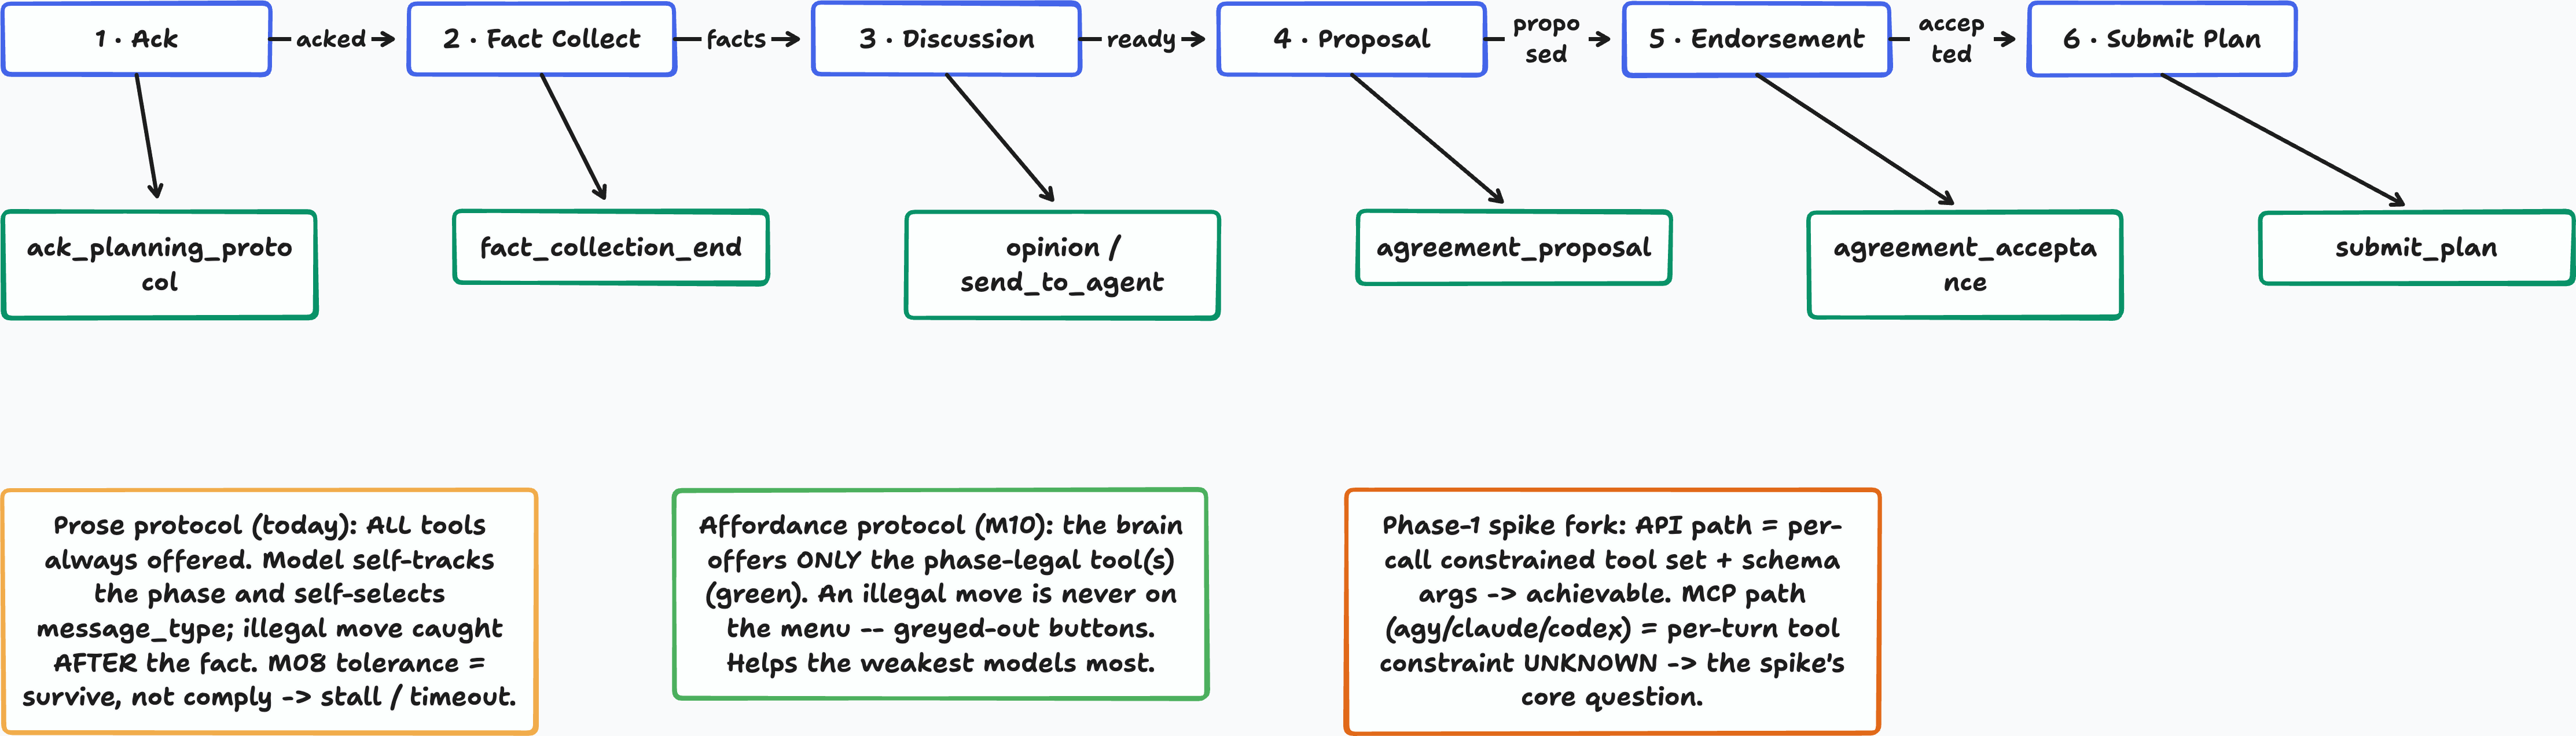
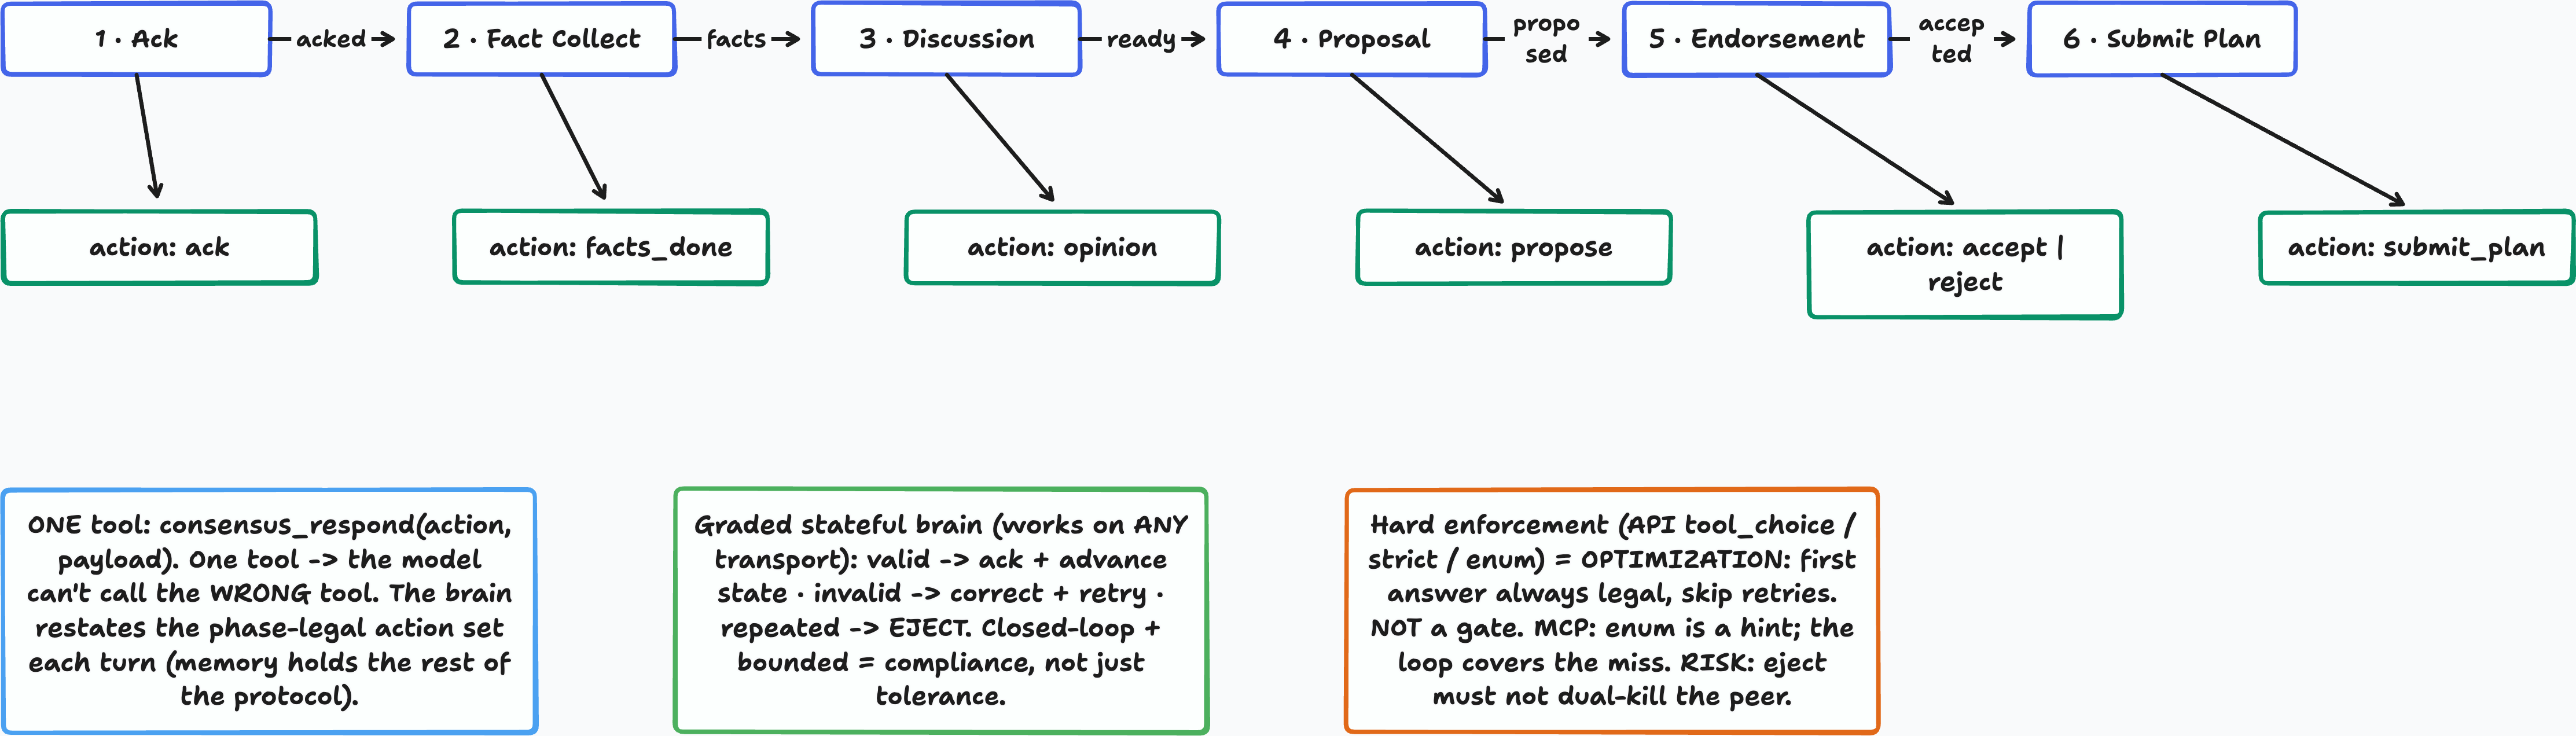
docs(M10): rewrite thesis -> graded stateful protocol brain
Reframed from 'affordance-based tool exposure (hinges on MCP enforcement)'
to a graded, bounded, closed-loop brain that works on any transport:
single consensus_respond tool, per-turn legal action set restated (agent
is memory-capable per M06), validate -> correct -> peer-safe eject. Hard
tool_choice/strict/enum enforcement demoted to an API-path OPTIMIZATION,
not a gate. Named risk: eject must not dual-kill the peer (LB-7/8). Phase-1
spike re-scoped to injection map + peer-safe-eject trace + enforcement-reach
measurement. Diagram + snapshot refreshed.

Settled in design exchange Fausto <-> Claude, 2026-06-25.

diff --git a/design/milestone10-protocol-compliance-plan.md b/design/milestone10-protocol-compliance-plan.md
@@ -1,98 +1,115 @@
-# Milestone 10 — Protocol compliance via affordance-based tool exposure — Plan
+# Milestone 10 — Robust consensus via a graded, stateful protocol brain — Plan
 
-> **Spike-led epic.** M10 makes multi-agent consensus *robust* by attacking the root cause logged in
-> **LB-10**: agents don't reliably follow the multi-phase protocol, and **tolerance ≠ compliance**.
-> Phase 1 (this plan's focus) is a **feasibility spike** — read/research + small probes, **no
-> production changes** — that answers whether the production substrate can support an "affordance
-> protocol" before we commit to building one. Phase 2 (implementation) is deliberately left to be
-> *shaped by the spike's findings*.
+> **Spike-led epic.** M10 makes multi-agent consensus robust. The mechanism — settled in a design
+> exchange (Fausto ↔ Claude, 2026-06-25) — is **not** hard decode-time enforcement, but a **graded,
+> bounded, closed-loop protocol brain** that works on *any* transport. Phase 1 is a design spike
+> (read/research + small probes, **no production changes**); Phase 2 (implementation) is shaped by it.
 
-## 1. Thesis (from LB-10) — compliance, not tolerance
+## 1. Thesis — compliance via a closed feedback loop, not hard enforcement
 
-Across M06–M08 the recurring failure (LB-6/7/8) is agents not following the consensus phase machine
+The recurring failure across M06–M08 (LB-6/7/8) is agents not following the consensus phase machine
 (ack → fact_collection → discussion → proposal → endorsement → submit_plan); weak models hallucinate
-transitions. M08 made the engine **tolerant** (no dual-crash on an illegal move) — but a tolerant
-engine + a non-compliant agent **stalls/times out**. The cure is **compliance**.
+illegal transitions. M08 made the engine **tolerant** (don't dual-crash) — but LB-10's "tolerance ≠
+compliance" still bit: *passive* tolerance stalls.
 
-**The lever — "affordance protocol" vs "prose protocol":**
-- **Today (prose):** the brain *describes* the protocol in prose, the model **self-tracks its phase and
-  self-selects `message_type`**, and the brain **validates/rejects after the fact**.
-- **Proposed (affordance):** the brain (which already knows the phase) **exposes only the tool(s) legal
-  for the current phase** — an illegal move is never on the menu, like greyed-out buttons. Helps the
-  *weakest* models most; the natural next step of the M07 "centralized brain" thesis (brain owns
-  per-turn **affordances**, not just prompt/parse/lifecycle).
+**The cure is an *active, bounded* loop, owned by the brain.** Each turn:
 
-Visual — `M10 · Affordance Protocol` (phases spine → per-phase legal tool → prose-problem /
-affordance-solution / spike-fork annotations). Snapshot committed in-repo so it survives without the
-DiagramTalk server; the source layout spec is alongside it (regenerate via
-`diagramtalk.py layout … --post`).
+```
+agent responds  →  brain validates against the CURRENT phase-legal set  →
+    valid     → ack + advance state ("you're now in state XX")
+    invalid   → reject + correct + retry ("not valid here; your options are {agree, back_off}")
+    repeated  → eject the agent, peer-safe ("ejected — see you when you're sober")
+```
 
-![M10 Affordance Protocol](diagrams/m10-affordance-protocol.png)
+This is **not** the naive M08 tolerance LB-10 criticized. It is **closed-loop** (a precise correction,
+not the same prompt again) and **bounded** (the eject rung guarantees termination instead of an infinite
+stall). Active + bounded is the difference between *survives* and *succeeds*.
 
-*Source spec: [`diagrams/m10-affordance-protocol.layout.json`](diagrams/m10-affordance-protocol.layout.json).*
+## 2. The design (settled)
 
-## 2. Why spike-led — the feasibility fork (the heart of Phase 1)
+- **One tool, not twelve.** Collapse `submit_plan` / `agreement_proposal` / `agreement_acceptance` / …
+  into a single **`consensus_respond(action, payload)`**. With one tool the model *cannot call the wrong
+  tool* — a whole failure class (LB-7/8 "picked an illegal message_type") disappears for free.
+- **The legal-move map is deterministic and server-side.** "agreement phase → {agree, back_off}" is a
+  pure function of the phase; the brain already knows the phase, so the legal `action` set per turn is
+  fully scriptable ahead of time.
+- **Restate the *current* affordance each turn — don't re-send the whole protocol.** The attached agent
+  is **memory-capable** (already the implemented reality: M06 rewrote the executor for native persistent
+  multi-turn, `agy --continue`, to "reliably simulate MCP-based agent statefulness"). So the full
+  protocol rides in the agent's transcript memory; only the **current-turn legal set** goes in each turn
+  payload ("phase: agreement; valid: {agree, back_off}"). Cheap, and the single biggest lever for
+  first-try compliance — it counters instruction-drift over long context without re-sending the schema.
+- **Graded validation + bounded eject** is the brain's job, in *our* code (`team-coordinator.ts` +
+  the driver), on a path we fully control — independent of transport.
 
-The two execution paths have different **compliance ceilings**, and the production one is **unverified**:
+Visual (snapshot committed in-repo so it survives without the DiagramTalk server; source spec alongside):
 
-| Path | Can the brain constrain the per-turn tool set? |
-|---|---|
-| **API** (in-process) | We control the request → native function-calling, per-call tool sets, schema-enforced args. Affordance protocol **likely fully achievable**. |
-| **MCP** (agy/claude/codex — the *production* direction) | Raw prompt → raw text; the MCP runs its **own** internal tool loop → we may **not** be able to restrict its per-turn tools. Possibly irreducibly freeform → stuck with prose+parse+tolerance (weakest substrate). **UNKNOWN — this is the spike's core question.** |
+![M10 graded protocol brain](diagrams/m10-affordance-protocol.png)
 
-LB-10's open fork: **is the API path the better substrate for robust consensus, with MCP reserved for
-single-agent execution?** The implementation plan can't be written until this is resolved.
+*Phase spine → the per-phase legal `action` set the brain restates each turn → one-tool / graded-brain /
+enforcement-as-optimization framing. Source: [`diagrams/m10-affordance-protocol.layout.json`](diagrams/m10-affordance-protocol.layout.json).*
 
-## 3. Phase-1 spike — goal & boundaries
+## 3. Hard enforcement = an *opportunistic optimization*, not a gate
 
-**Goal:** produce an evidence-backed findings report that (a) answers the three LB-10 questions, (b)
-resolves the API-vs-MCP substrate fork with a recommendation, and (c) sketches the Phase-2
-implementation (or returns a no-go/alternative). **It is exploratory: read, research, and *small*
-probes only.**
+Where we own the model's request directly (the **API path**), native function-calling gives hard
+guarantees: `tool_choice` forces the call, `strict: true` guarantees the arg schema, an `enum` pins the
+`action` to the legal set — so the **first** answer is always legal and the retry round-trip is skipped.
+That's a token/latency win **on the API path only**. On the **MCP path** the provider's harness owns the
+model's request and MCP ships a tool's schema as a *description*, not a decode-time constraint — so the
+narrowed `enum` is a strong hint, not a guarantee. **That's fine:** the graded loop (§1) catches the
+miss and re-prompts. Enforcement, where available, just means fewer retries — it is **not** load-bearing
+for robustness. This demotes the old "API-vs-MCP substrate fork" from a blocking risk to a measurement.
 
-**STRICTLY out of scope (do NOT change):** the protocol engine (`team-coordinator.ts`), the brain
-(`in-process-driver.ts`, the MCP completer), the wire-contract, any provider wiring. No affordance
-implementation in Phase 1 — that's Phase 2. Also out of M10 entirely: **operator abort/recovery for
-`awaiting_operator` tasks** (M08-T3 shipped fence-only; explicitly its *own* future milestone).
+## 4. Named risk — the eject rung must be peer-safe
 
-## 4. Spike questions → concrete investigations
+The "see you when you're sober" rung is the one with real teeth. Ejecting a babbling planner is correct,
+but ejection is exactly the fault-tolerance surface that bit us before: the **LB-7/8 bug was that one
+planner's illegal move dual-killed the peer.** The eject path must drop the bad agent **without** taking
+down the consensus or the surviving planner — i.e. clean failure propagation (the M03/M08 work). The
+schema/affordance parts are easy; **graceful, peer-safe eject is where the engineering risk now lives.**
 
-- **SQ1 — API-path function-calling guarantees.** For each in-process API provider we use: can we
-  restrict the **offered tool set per call**? Is there **enforced arg-schema** / constrained decoding /
-  forced tool choice? *Method:* read each provider's current function-calling docs/SDK — **do not
-  answer from memory**; for Anthropic use the `claude-api` skill, for others their current API docs —
-  plus a minimal live probe if a doc is ambiguous.
-- **SQ2 — MCP-path per-turn tool constraint.** Does the MCP transport (agy/claude/codex MCP servers)
-  expose **any** hook to constrain which tools the agent may call **this turn**, or is it irreducibly
-  freeform-text with its own internal tool loop? *Method:* inspect the MCP server interfaces +
-  `mcp-server.ts`/the attach turn-loop; check each provider-MCP's documented options.
-- **SQ3 — substrate fork + injection map.** Given SQ1/SQ2: API-as-consensus-substrate vs MCP-for-
-  execution-only — recommend. *Method:* map the **current** per-turn affordance/validation points in the
-  code (where the brain builds the prompt and validates `message_type`) so Phase 2 has concrete
-  injection sites, and weigh the fork against them.
+## 5. Phase-1 design spike — goal & boundaries
 
-## 5. Definition of Done (Phase-1 spike)
+**Goal:** an evidence-backed design + go/no-go. **Read/research + small probes only; no production
+changes.** Deliverables:
+- **DQ1 — Injection map.** Where in the engine does protocol validation/correction happen today
+  (`team-coordinator.ts`, the driver, response parsing)? Pin the exact sites where the single-tool +
+  per-turn-affordance + graded-validate/correct/eject loop would slot in, **preserving all existing
+  behaviour** until deliberately changed.
+- **DQ2 — Peer-safe eject.** Trace the current failure-propagation path (`handleAgentFailure` and the
+  M03/M08 fences). Confirm an agent can be ejected mid-consensus without dual-killing the peer, and name
+  exactly what Phase 2 must add/change to make "eject one, keep the round alive" true.
+- **DQ3 — Enforcement-optimization reach (measurement, not a gate).** API path: which providers' native
+  function-calling supports per-call tool restriction + `strict` + `enum` (research current provider
+  docs — **not from memory**; `claude-api` skill for Anthropic). MCP path: does a single
+  `consensus_respond` tool whose `action` enum we narrow per `await_turn` get (a) re-read each turn and
+  (b) *bound* the model to the enum, or merely *suggested*? Per harness (`agy`/`claude`/`codex`).
 
-1. **Findings report** answering SQ1, SQ2, SQ3 with **cited evidence** (provider docs + code refs), not
-   assertions — recorded as a logbook `LB-N` entry (+ this plan updated).
-2. **Substrate-fork recommendation** (API-substrate vs hybrid vs MCP-also-works), with the reasoning.
-3. **Phase-2 sketch or go/no-go:** if affordances are feasible, a concrete injection-point list and a
-   proposed Phase-2 task breakdown; if not, the alternative (e.g. stronger post-hoc coercion).
-4. **No production code changed** (Rule 5 self-check clean); any probe code lives in `scratchpad/` or a
-   clearly-marked throwaway, not the repo.
+**OUT of scope (do NOT change in Phase 1):** the engine, the brain, the wire-contract, provider wiring.
+No implementation. Also out of M10 entirely: **operator abort/recovery for `awaiting_operator` tasks**
+(M08-T3 shipped fence-only; its own future milestone).
 
-## 6. Sequencing & notes
+## 6. Definition of Done (Phase 1)
 
-- Phase 1 is **research/feasibility**; Phase 2 (implementation) is a *separate* plan written **after**
-  the spike reports. Do not pre-commit Phase-2 scope here.
-- Implementer = Claude under LB-14 (Gemini out of budget); the spike is read/research-heavy → low token
-  burn relative to impl, but **serial-actor rule** still applies.
-- Honesty over results: a clear "MCP can't constrain per-turn tools, so the production path can't fully
-  comply" is a **valuable** spike result, not a failure.
+1. **Design doc** (logbook `LB-N` + this plan updated): the single-tool + restated-per-turn-affordance +
+   graded-bounded-loop design, with the **injection map** (DQ1) and the **peer-safe-eject analysis**
+   (DQ2) grounded in real code refs.
+2. **Enforcement-optimization measurement** (DQ3): per-path/per-provider, what hard enforcement buys and
+   where it's unavailable — framed as an optimization, with the graded loop as the floor everywhere.
+3. **Phase-2 task breakdown** (or no-go): concrete steps to build the graded brain + single tool + eject
+   safety, sequenced; the API-path enforcement optimization listed as a *separate, optional* follow-on.
+4. **No production code changed** (Rule 5 clean); probes live in `scratchpad/`, not the repo.
 
-## 7. Open items
+## 7. Sequencing & notes
 
-- **✅ Milestone numbering — ACCEPTED (Fausto, 2026-06-25): M10 = this epic** (consensus/protocol
-  robustness via affordance-based tool exposure), renumbered from the former M09.
-- **Spike depth bound** — cap Phase-1 at the three SQs above; resist expanding into Phase-2 design
-  mid-spike (LB-10 warns: "focused spike, not an open-ended dive").
+- Phase 1 = design/feasibility; Phase 2 (implementation) is a separate plan written **after** it. The
+  bulk of the work now lives in **our** code (the graded brain + peer-safe eject), not in betting on MCP
+  enforcement — a materially safer epic than the original affordance-hinges-on-MCP framing.
+- Implementer = Claude under LB-14 (Gemini out of budget); serial-actor rule applies.
+- Honesty over results: "MCP won't bind the enum" is a *measurement*, not a failure — the graded loop
+  already covers it.
+
+## 8. Open items
+
+- **✅ Milestone numbering — ACCEPTED (Fausto, 2026-06-25): M10 = this epic.**
+- **Diagram** (`design/diagrams/m10-…`) refreshed to the graded-brain thesis at scoping time.